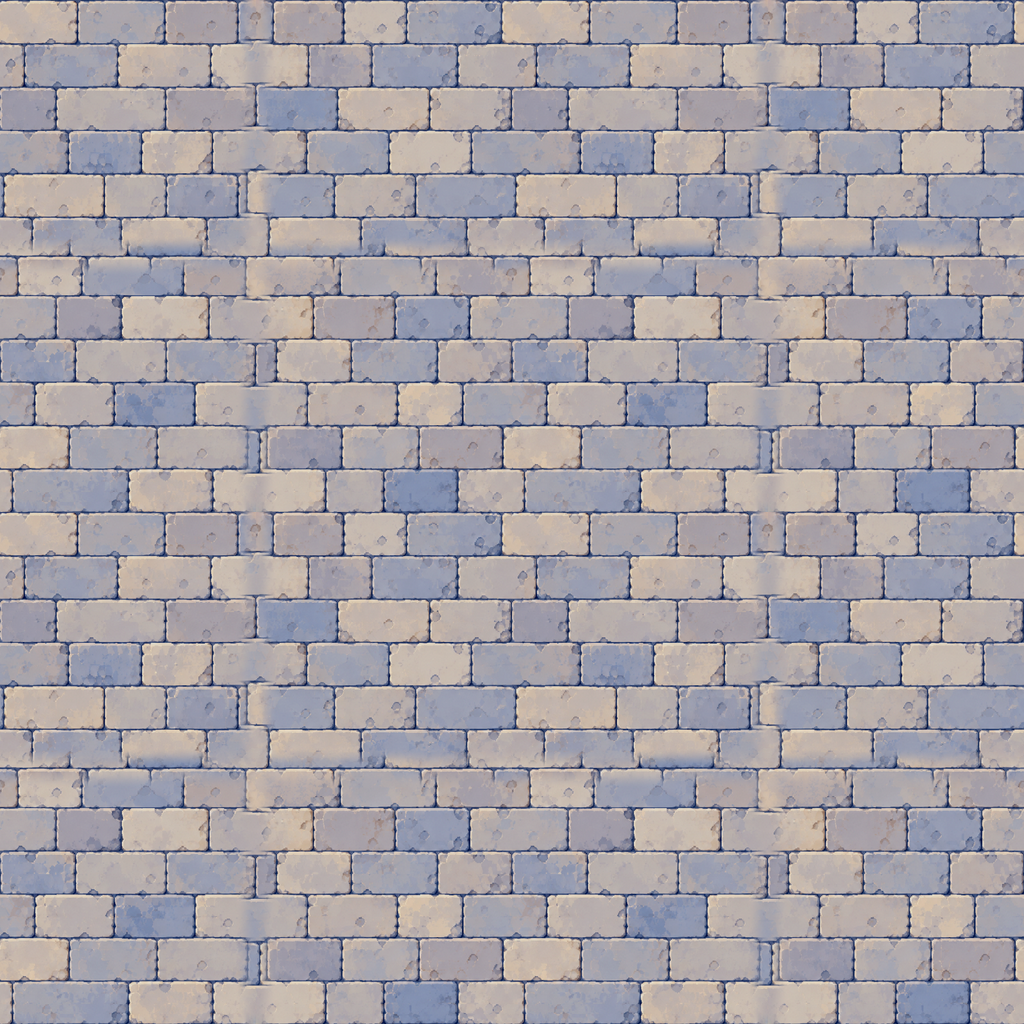
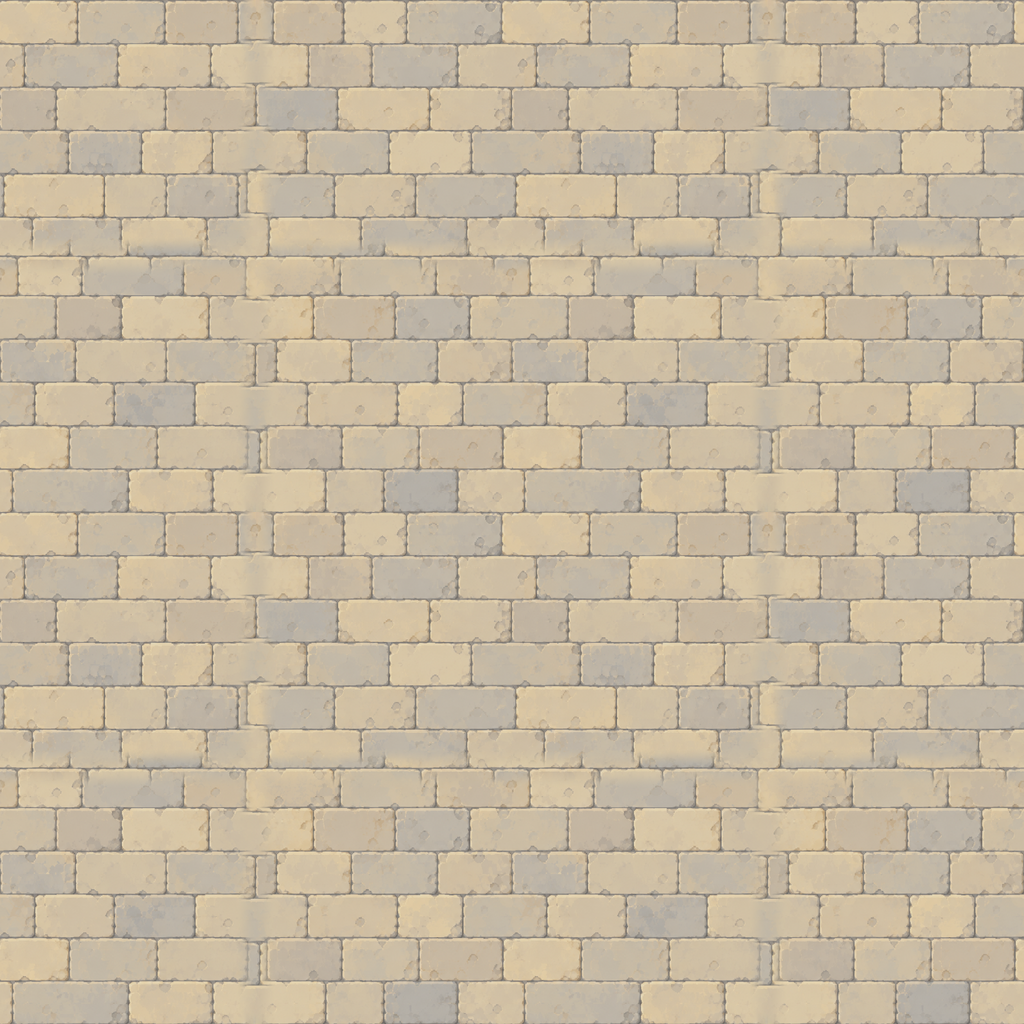
城壁テクスチャの色をベージュに寄せる
色補正表を通した後に目標画像の壁の色(平均)になるよう、入力側の平均色を逆算して合わせる。
make_ground.py に平均色だけを指定する --mean を追加。

diff --git a/tools/illust/make_ground.py b/tools/illust/make_ground.py
@@ -1,7 +1,8 @@
 """Codex で生成した地面テクスチャを、縁の枠を落として継ぎ目なし(上下左右に並べられる)にし、
 参考画像の色味に寄せて SboGrpData/res/illust/ground/ に書き出す。
 
-使い方: python3 tools/illust/make_ground.py <入力.png> <出力.png> [色の参考画像.png x0 y0 x1 y1]
+使い方: python3 tools/illust/make_ground.py <入力.png> <出力.png> [色の参考画像.png x0 y0 x1 y1 | --mean R,G,B]
+--mean は明るさのばらつきはそのままで、平均の色だけを指定値に合わせる(色補正表を通した後の色から逆算して使う)
 """
 import sys
 
@@ -36,7 +37,10 @@ def main():
 	src, dst = sys.argv[1], sys.argv[2]
 	a = np.asarray(Image.open(src).convert("RGB")).astype(np.float32)[CROP:-CROP, CROP:-CROP]
 	a = seamless(a)
-	if len(sys.argv) >= 8:
+	if len(sys.argv) >= 5 and sys.argv[3] == "--mean":
+		a = a - a.mean((0, 1)) + np.array([float(v) for v in sys.argv[4].split(",")])
+		a = np.clip(a, 0, 255)
+	elif len(sys.argv) >= 8:
 		x0, y0, x1, y1 = map(int, sys.argv[4:8])
 		ref = np.asarray(Image.open(sys.argv[3]).convert("RGB").crop((x0, y0, x1, y1))).astype(np.float32)
 		a = match_color(a, ref)
